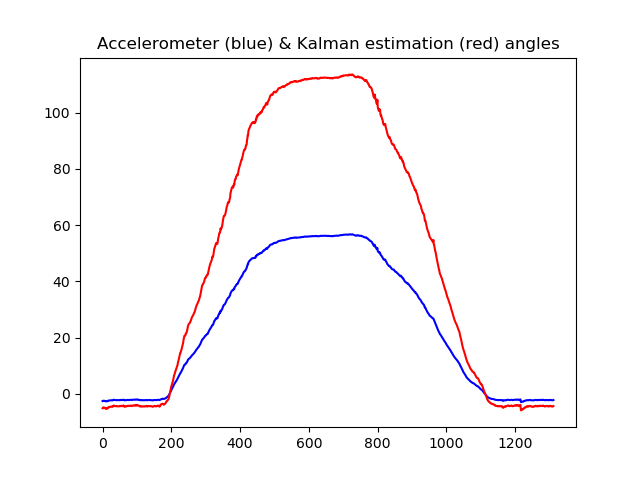
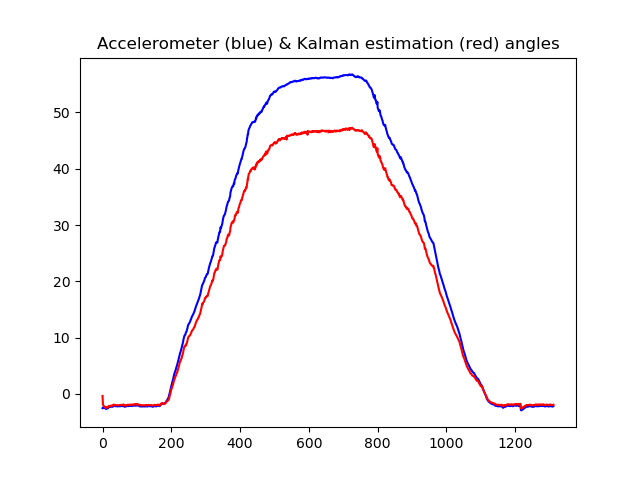
Corrected the kalman filter

diff --git a/idt_module_1_materials/exercise_imu_kalman/imu_exercise_kalman.py b/idt_module_1_materials/exercise_imu_kalman/imu_exercise_kalman.py
@@ -14,7 +14,7 @@ from imu_box3d import imu_visualize
 # name of the file to read ##
 fileName = 'imu_razor_data_pitch_55deg.txt'
 
-## IMU type
+# IMU type
 #imuType = 'vectornav_vn100'
 imuType = 'sparkfun_razor'
 
@@ -26,9 +26,9 @@ show3DLiveViewInterval = 3
 ##### Insert initialize code below ###################
 
 # approx. bias values determined by averaging over static measurements
-bias_gyro_x = 2*pi/90 # [rad/measurement]
-bias_gyro_y = 2*pi/90 # [rad/measurement]
-bias_gyro_z = 2*pi/90 # [rad/measurement]
+bias_gyro_x = 2*pi/90  # [rad/measurement]
+bias_gyro_y = 2*pi/90  # [rad/measurement]
+bias_gyro_z = 2*pi/90  # [rad/measurement]
 
 # variances
 gyroVar = 0.5
@@ -54,153 +54,151 @@ gyro_y_rel = 0.0
 gyro_z_rel = 0.0
 
 # open the imu data file
-f = open (fileName, "r")
+f = open(fileName, "r")
 
 # initialize variables
 count = 0
 relative_angle = 0
-bias=0
-a = 0.1 # low pass smoothing factor/cutoff
-prev_pitch = 0;
+bias = 0
+a = 0.1  # low pass smoothing factor/cutoff
+prev_pitch = 0
 # initialize 3D liveview
 if show3DLiveView == True:
-	imuview = imu_visualize()
-	imuview.set_axis (0, 0, 0)
-	imuview.update()
+    imuview = imu_visualize()
+    imuview.set_axis(0, 0, 0)
+    imuview.update()
 
 # looping through file
 for line in f:
-	count += 1
+    count += 1
 
-	# split the line into CSV formatted data
-	line = line.replace ('*',',') # make the checkum another csv value
-	csv = line.split(',')
+    # split the line into CSV formatted data
+    line = line.replace('*', ',')  # make the checkum another csv value
+    csv = line.split(',')
 
-	# keep track of the timestamps 
-	ts_recv = float(csv[0])
-	if count == 1: 
-		ts_now = ts_recv # only the first time
-	ts_prev = ts_now
-	ts_now = ts_recv
+    # keep track of the timestamps
+    ts_recv = float(csv[0])
+    if count == 1:
+        ts_now = ts_recv  # only the first time
+    ts_prev = ts_now
+    ts_now = ts_recv
 
-	if imuType == 'sparkfun_razor': 
-		# import data from a SparkFun Razor IMU (SDU firmware)
-		# outputs ENU reference system
-		acc_x = int(csv[2]) / 1000.0 * 4 * 9.82;
-		acc_y = int(csv[3]) / 1000.0 * 4 * 9.82;
-		acc_z = int(csv[4]) / 1000.0 * 4 * 9.82;
-		gyro_x = int(csv[5]) * 1/14.375 * pi/180.0;
-		gyro_y = int(csv[6]) * 1/14.375 * pi/180.0;
-		gyro_z = int(csv[7]) * 1/14.375 * pi/180.0;
+    if imuType == 'sparkfun_razor':
+        # import data from a SparkFun Razor IMU (SDU firmware)
+        # outputs ENU reference system
+        acc_x = int(csv[2]) / 1000.0 * 4 * 9.82
+        acc_y = int(csv[3]) / 1000.0 * 4 * 9.82
+        acc_z = int(csv[4]) / 1000.0 * 4 * 9.82
+        gyro_x = int(csv[5]) * 1/14.075 * pi/180.0
+        gyro_y = int(csv[6]) * 1/14.075 * pi/180.0
+        gyro_z = int(csv[7]) * 1/14.075 * pi/180.0
 
-	elif imuType == 'vectornav_vn100': 
-		# import data from a VectorNav VN-100 configured to output $VNQMR
-		# outputs NED reference system (therefore converted to ENU)
-		acc_y = float(csv[9])
-		acc_x = float(csv[10])
-		acc_z = -float(csv[11])
-		gyro_y = float(csv[12])
-		gyro_x = float(csv[13])
-		gyro_z = -float(csv[14])
+    elif imuType == 'vectornav_vn100':
+        # import data from a VectorNav VN-100 configured to output $VNQMR
+        # outputs NED reference system (therefore converted to ENU)
+        acc_y = float(csv[9])
+        acc_x = float(csv[10])
+        acc_z = -float(csv[11])
+        gyro_y = float(csv[12])
+        gyro_x = float(csv[13])
+        gyro_z = -float(csv[14])
 
-	# subtract defined static bias for each gyro		
-	gyro_x -= bias_gyro_x
-	gyro_y -= bias_gyro_y
-	gyro_z -= bias_gyro_z
+    # subtract defined static bias for each gyro
+    gyro_x -= bias_gyro_x
+    gyro_y -= bias_gyro_y
+    gyro_z -= bias_gyro_z
 
-	##### Insert loop code below #########################
+    ##### Insert loop code below #########################
 
-	# Variables available
-	# ----------------------------------------------------
-	# count		Current number of updates		
-	# ts_prev	Time stamp at the previous update
-	# ts_now	Time stamp at this update
-	# acc_x		Acceleration measured along the x axis
-	# acc_y		Acceleration measured along the y axis
-	# acc_z		Acceleration measured along the z axis
-	# gyro_x	Angular velocity measured about the x axis
-	# gyro_y	Angular velocity measured about the y axis
-	# gyro_z	Angular velocity measured about the z axis
+    # Variables available
+    # ----------------------------------------------------
+    # count		Current number of updates
+    # ts_prev	Time stamp at the previous update
+    # ts_now	Time stamp at this update
+    # acc_x		Acceleration measured along the x axis
+    # acc_y		Acceleration measured along the y axis
+    # acc_z		Acceleration measured along the z axis
+    # gyro_x	Angular velocity measured about the x axis
+    # gyro_y	Angular velocity measured about the y axis
+    # gyro_z	Angular velocity measured about the z axis
 
-	## Insert your code here ##
-	# calculate pitch (x-axis) and roll (y-axis) angles
-	pitch = atan2(-acc_y, acc_z)
-	roll = atan2(acc_x, sqrt(pow(acc_y,2.0) + pow(acc_z,2.0)))
+    ## Insert your code here ##
+    # calculate pitch (x-axis) and roll (y-axis) angles
+    pitch = atan2(-acc_y, acc_z)
+    roll = atan2(acc_x, sqrt(pow(acc_y, 2.0) + pow(acc_z, 2.0)))
 
-	if(prev_pitch == 0) :
-		prev_pitch = pitch
-	pitch = a*pitch + (1-a)*prev_pitch
-	prev_pitch = pitch
+    if (prev_pitch == 0):
+        prev_pitch = pitch
+    pitch = a*pitch + (1-a)*prev_pitch
+    prev_pitch = pitch
 
-	# integrate gyro velocities to releative angles
-	dt = (ts_now-ts_prev)
-	gyro_x_rel += gyro_x * dt
-	gyro_y_rel += gyro_y * dt
-	gyro_z_rel += gyro_z * dt
+    # integrate gyro velocities to releative angles
+    dt = (ts_now-ts_prev)
+    gyro_x_rel += gyro_x * dt
+    gyro_y_rel += gyro_y * dt
+    gyro_z_rel += gyro_z * dt
 
-	# Kalman prediction step (we have new data in each iteration)
-	pred_pitch = pitch  + gyro_x * dt
-	gyroVarAcc += gyroVar
-	predVar = estVar + gyroVarAcc*dt
+    # Kalman prediction step (we have new data in each iteration)
+    pred_pitch = pitch + gyro_x * dt
+    gyroVarAcc += gyroVar
+    predVar = estVar + gyroVarAcc*dt
 
-	# Not necesarry to update due to new samples every step
-	# estAngle = pred_pitch
-	# estVar = predVar
+    # Not necesarry to update due to new samples every step
+    # estAngle = pred_pitch
+    # estVar = predVar
 
-	# Kalman correction step (we have new data in each iteration) 
-	K = pred_pitch / (gyro_x_rel - pred_pitch)
-	corrAngle = pred_pitch + K * (gyro_x_rel - pred_pitch)
-	corrVar = predVar *(1 -K)
-	estAngle = corrAngle
-	estVar = corrVar
-	gyroVarAccumulated = 0 # reset acc variance
+    # Kalman correction step (we have new data in each iteration)
+    K = predVar / (gyroVarAcc + predVar)
+    corrAngle = pred_pitch + K * (gyro_x_rel - pred_pitch)
+    corrVar = predVar * (1 - K)
+    estAngle = corrAngle
+    estVar = corrVar
+    gyroVarAccumulated = 0  # reset acc variance
 
-	# define which value to plot as the Kalman filter estimate
-	kalman_estimate = estAngle
+    # define which value to plot as the Kalman filter estimate
+    kalman_estimate = estAngle
 
-	# define which value to plot as the absolute value (pitch/roll)
-	pitch_roll_plot = pitch
+    # define which value to plot as the absolute value (pitch/roll)
+    pitch_roll_plot = pitch
 
-	# define which value to plot as the relative gyro value
-	gyro_rel_plot = gyro_x_rel
+    # define which value to plot as the relative gyro value
+    gyro_rel_plot = gyro_x_rel
 
-	######################################################
+    ######################################################
 
-	# if 3D liveview is enabled
-	if show3DLiveView == True and count % show3DLiveViewInterval == 0:
+    # if 3D liveview is enabled
+    if show3DLiveView == True and count % show3DLiveViewInterval == 0:
 
-		# determine what variables to liveview
-		roll_view = 0.0
-		yaw_view = 0.0
-		pitch_view = kalman_estimate
+        # determine what variables to liveview
+        roll_view = 0.0
+        yaw_view = 0.0
+        pitch_view = corrAngle
 
-		imuview.set_axis (-pitch_view, -yaw_view, roll_view)
-		imuview.update()
+        imuview.set_axis(-pitch_view, -yaw_view, roll_view)
+        imuview.update()
 
-	# if plotting is enabled
-	if showPlot == True:
-		plotDataGyro.append(gyro_rel_plot*180.0/pi)
-		plotDataAcc.append(pitch_roll_plot*180.0/pi)
-		plotDataKalman.append(kalman_estimate*180.0/pi)
+    # if plotting is enabled
+    if showPlot == True:
+        plotDataGyro.append(gyro_rel_plot*180.0/pi)
+        plotDataAcc.append(pitch_roll_plot*180.0/pi)
+        plotDataKalman.append(kalman_estimate*180.0/pi)
 
-# closing the file	
+# closing the file
 f.close()
 
 # show the plot
 if showPlot == True:
-	ion()
-	plt.figure(1)
-	plt.title('Gyro integrated (relative) angle')
-	plt.plot(plotDataGyro)
-	plt.savefig('imu_exercise_gyro.png')
+    ion()
+    plt.figure(1)
+    plt.title('Gyro integrated (relative) angle')
+    plt.plot(plotDataGyro)
+    plt.savefig('imu_exercise_gyro.png')
 
-	plt.figure(2)
-	plt.title('Accelerometer (blue) & Kalman estimation (red) angles')
-	plt.plot(plotDataAcc,'blue')
-	plt.plot(plotDataKalman,'red')
-	plt.savefig('imu_exercise_acc_kalman.png')
-	plt.draw()
-	print ('Press enter to quit')
-	input()
-
-
+    plt.figure(2)
+    plt.title('Accelerometer (blue) & Kalman estimation (red) angles')
+    plt.plot(plotDataAcc, 'blue')
+    plt.plot(plotDataKalman, 'red')
+    plt.savefig('imu_exercise_acc_kalman.png')
+    plt.draw()
+    print('Press enter to quit')
+    input()
